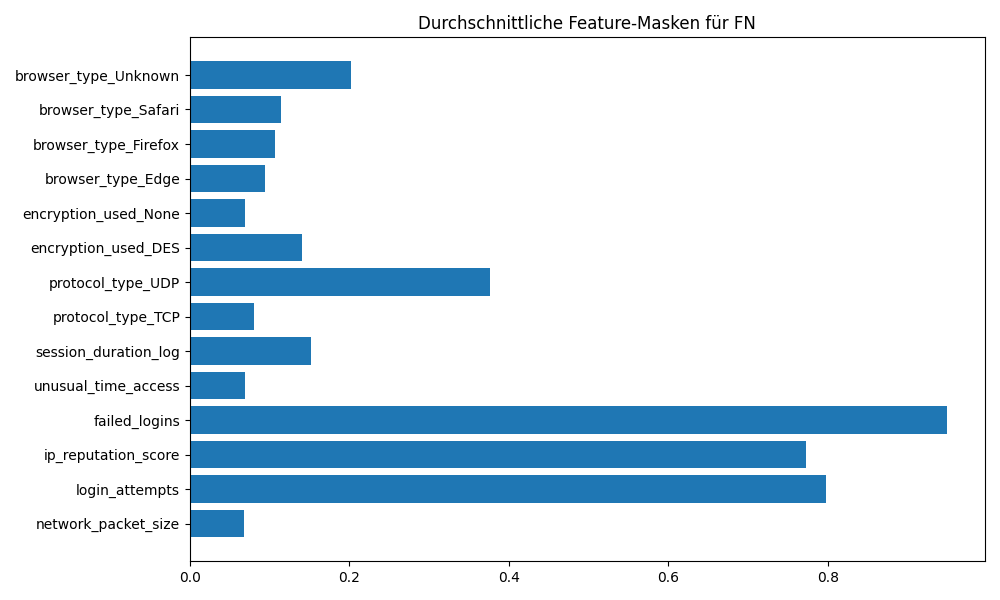
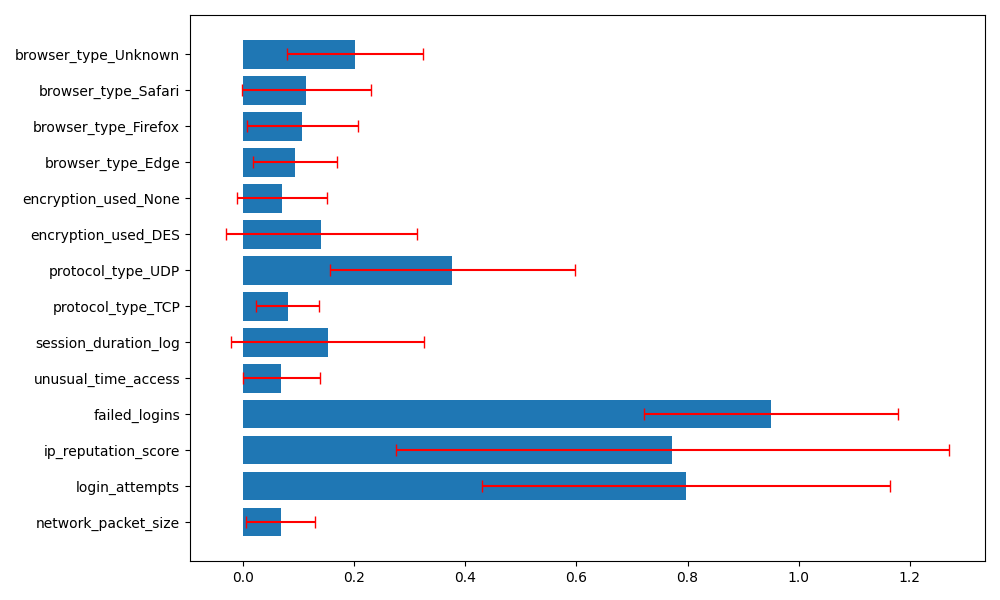
feature masks für fehleranalyse

diff --git a/src/training/evaluate_tabnet.py b/src/training/evaluate_tabnet.py
@@ -1,9 +1,11 @@
 from glob import glob
 import json
 import os
+from matplotlib.patches import Rectangle
 import pandas as pd
 import numpy as np
 import matplotlib.pyplot as plt
+import seaborn as sns
 from pathlib import Path
 from sklearn.metrics import (
     ConfusionMatrixDisplay, confusion_matrix, 
@@ -28,64 +30,179 @@ import os
 import numpy as np
 import matplotlib.pyplot as plt
 
+def compute_null_distribution(mean_mask, labels, n_iter=1000, seed=42):
+    np.random.seed(seed)
+    null_diffs = []
+
+    for _ in range(n_iter):
+        permuted = np.random.permutation(labels)
+        group1 = mean_mask[permuted == 0]
+        group2 = mean_mask[permuted == 1]
+
+        if len(group1) == 0 or len(group2) == 0:
+            continue
+
+        diff = group1.mean(axis=0) - group2.mean(axis=0)
+        null_diffs.append(diff)
+
+    return np.array(null_diffs)
+
+def compute_feature_mask_statistics(mean_mask, idx, feature_names):
+    if len(idx) == 0:
+        return np.zeros(len(feature_names)), np.zeros(len(feature_names))
+    subset = mean_mask[idx]
+    return subset.mean(axis=0), subset.std(axis=0)
+
+def compute_significance(mask_group1, mask_group2, feature_names, diff_label, save_dir):
+    labels = np.array([0] * len(mask_group1) + [1] * len(mask_group2))
+    masks_combined = np.vstack([mask_group1, mask_group2])
+
+    null_diffs = compute_null_distribution(masks_combined, labels, n_iter=1000)
+    lower_ci = np.percentile(null_diffs, 2.5, axis=0)
+    upper_ci = np.percentile(null_diffs, 97.5, axis=0)
+
+    real_diff = mask_group2.mean(axis=0) - mask_group1.mean(axis=0)
+    significant = (real_diff < lower_ci) | (real_diff > upper_ci)
+
+    # Plot
+    plt.figure(figsize=(10, 6))
+    plt.barh(
+        feature_names,
+        real_diff,
+        color=["#1f77b4" if sig else "#d3d3d3" for sig in significant]
+    )
+    plt.axvline(0, color='gray', linestyle='--')
+    plt.tight_layout()
+    filepath = os.path.join(save_dir, f"diff_{diff_label.replace(' ', '_').lower()}_significant.png")
+    plt.savefig(filepath)
+    plt.close()
+
+    return pd.DataFrame({
+        "feature": feature_names,
+        f"diff_{diff_label.lower().replace(' ', '_')}": real_diff,
+        f"ci_lower_{diff_label.lower().replace(' ', '_')}": lower_ci,
+        f"ci_upper_{diff_label.lower().replace(' ', '_')}": upper_ci,
+        f"significant_{diff_label.lower().replace(' ', '_')}": significant
+    })
+
+def plot_feature_mask_bar(mean_mask, std_mask, cls_name, feature_names, save_dir):
+    plt.figure(figsize=(10, 6))
+    plt.barh(feature_names, mean_mask, xerr=std_mask, ecolor="red", capsize=4)
+    plt.tight_layout()
+    filepath = os.path.join(save_dir, f"featuremask_{cls_name.lower()}.png")
+    plt.savefig(filepath)
+    plt.close()
+
+def plot_feature_mask_heatmap(df_masks, df_significance, save_dir):
+    df_all = df_masks.merge(df_significance, on="feature").set_index("feature")
+
+    annot = pd.DataFrame(index=df_all.index)
+    for cls in ["tp", "fn", "fp", "tn"]:
+        mean = df_all[f"mean_{cls}"]
+        std = df_all[f"std_{cls}"]
+        annot[cls.upper()] = [f"{m:.2f} ± {s:.2f}" for m, s in zip(mean, std)]
+
+    heatmap_data = df_all[[f"mean_tp", f"mean_fn", f"mean_fp", f"mean_tn"]]
+    heatmap_data.columns = ["TP", "FN", "FP", "TN"]
+
+    plt.figure(figsize=(10, 8))
+    ax = sns.heatmap(heatmap_data, annot=annot, fmt="", cmap="Blues", linewidths=0.5,
+                     cbar_kws={"label": "Feature Importance (Mean)"})
+    plt.ylabel("Feature")
+    plt.xlabel("Fehlerklasse")
+
+    # Signifikanzrahmen einzeichnen
+    sig_map = {
+        (i, 1): sig for i, sig in enumerate(df_all["significant_fn_tp"])  # FN
+    }
+    sig_map.update({
+        (i, 2): sig for i, sig in enumerate(df_all["significant_fp_tn"])  # FP
+    })
+    for (y, x), sig in sig_map.items():
+        if sig:
+            ax.add_patch(Rectangle((x, y), 1, 1, fill=False, edgecolor='red', lw=2))
+
+    plt.tight_layout()
+    heatmap_path = os.path.join(save_dir, "feature_mask_heatmap_significance.png")
+    plt.savefig(heatmap_path)
+    plt.close()
+
 def analyze_feature_masks(models, X_test, y_test, y_pred, save_dir="reports/figures/feature_masks"):
     os.makedirs(save_dir, exist_ok=True)
     feature_names = X_test.columns.tolist()
 
-    # Schritt 1: Ensemble-Mittelwert der Feature Masks sammeln
-    all_masks = []
-    for model in models:
-        mask, _ = model.explain(X_test.values.astype(np.float32))  # Achtung: explain() statt predict()
-        all_masks.append(mask)
+    all_masks = [model.explain(X_test.values.astype(np.float32))[0] for model in models]
+    mean_mask = np.mean(all_masks, axis=0)
 
-    mean_mask = np.mean(all_masks, axis=0)  # shape: [n_samples, n_features]
-
-    # Schritt 2: Fehlerklassen-Indizes
     y_test = np.array(y_test)
-    tp_idx = np.where((y_test == 1) & (y_pred == 1))[0]
-    fp_idx = np.where((y_test == 0) & (y_pred == 1))[0]
-    fn_idx = np.where((y_test == 1) & (y_pred == 0))[0]
-    tn_idx = np.where((y_test == 0) & (y_pred == 0))[0]
+    idx = {
+        "tp": np.where((y_test == 1) & (y_pred == 1))[0],
+        "fp": np.where((y_test == 0) & (y_pred == 1))[0],
+        "fn": np.where((y_test == 1) & (y_pred == 0))[0],
+        "tn": np.where((y_test == 0) & (y_pred == 0))[0]
+    }
 
-    # Schritt 3: Klassenspezifische Mittelwerte
-    mean_mask_tp = mean_mask[tp_idx].mean(axis=0) if len(tp_idx) > 0 else np.zeros(len(feature_names))
-    mean_mask_fp = mean_mask[fp_idx].mean(axis=0) if len(fp_idx) > 0 else np.zeros(len(feature_names))
-    mean_mask_fn = mean_mask[fn_idx].mean(axis=0) if len(fn_idx) > 0 else np.zeros(len(feature_names))
-    mean_mask_tn = mean_mask[tn_idx].mean(axis=0) if len(tn_idx) > 0 else np.zeros(len(feature_names))
+    stats = {
+        cls: compute_feature_mask_statistics(mean_mask, idx[cls], feature_names)
+        for cls in idx
+    }
 
-    # Schritt 4: Differenzplots
-    def plot_difference(diff, title, filename):
-        plt.figure(figsize=(10, 6))
-        plt.barh(feature_names, diff)
-        plt.title(title)
-        plt.axvline(0, color='gray', linestyle='--')
-        plt.tight_layout()
-        filepath = os.path.join(save_dir, filename)
-        plt.savefig(filepath)
-        plt.close()
-        print(f"[✓] Plot gespeichert unter: {filepath}")
+    df_masks = pd.DataFrame({
+        "feature": feature_names,
+        **{f"mean_{cls}": stats[cls][0] for cls in stats},
+        **{f"std_{cls}": stats[cls][1] for cls in stats},
+    })
 
-    plot_difference(mean_mask_fn - mean_mask_tp,
-                    "Feature-Mask-Differenz (False Negatives - True Positives)",
-                    "diff_fn_vs_tp.png")
+    df_fn_tp = compute_significance(mean_mask[idx["tp"]], mean_mask[idx["fn"]], feature_names, "FN TP", save_dir)
+    df_fp_tn = compute_significance(mean_mask[idx["tn"]], mean_mask[idx["fp"]], feature_names, "FP TN", save_dir)
 
-    plot_difference(mean_mask_fp - mean_mask_tn,
-                    "Feature-Mask-Differenz (False Positives - True Negatives)",
-                    "diff_fp_vs_tn.png")
+    df_combined = df_fn_tp.merge(df_fp_tn, on="feature")
+    df_masks.to_csv(os.path.join(save_dir, "feature_mask_means_stds.csv"), index=False)
+    df_combined.to_csv(os.path.join(save_dir, "feature_mask_significance.csv"), index=False)
 
-    # Schritt 5: Absolute Klassenmasken
-    for cls_name, mask in zip(
-        ["TP", "FP", "FN", "TN"],
-        [mean_mask_tp, mean_mask_fp, mean_mask_fn, mean_mask_tn]
-    ):
-        plt.figure(figsize=(10, 6))
-        plt.barh(feature_names, mask)
-        plt.title(f"Durchschnittliche Feature-Masken für {cls_name}")
-        plt.tight_layout()
-        filepath = os.path.join(save_dir, f"featuremask_{cls_name.lower()}.png")
-        plt.savefig(filepath)
-        plt.close()
-        print(f"[✓] Plot gespeichert unter: {filepath}")
+    for cls in stats:
+        plot_feature_mask_bar(stats[cls][0], stats[cls][1], cls.upper(), feature_names, save_dir)
+
+    plot_feature_mask_heatmap(df_masks, df_combined, save_dir)
+    print("[✓] Alle Feature-Masken und Signifikanzplots wurden gespeichert.")
+
+import os
+import numpy as np
+import pandas as pd
+import matplotlib.pyplot as plt
+import seaborn as sns
+
+def analyze_ensemble_uncertainty(models, X_test, y_test, y_pred, save_dir="reports/figures/ensemble_uncertainty"):
+    os.makedirs(save_dir, exist_ok=True)
+
+    print("[✓] Berechne predict_proba pro Fold-Modell...")
+    probas = np.array([model.predict_proba(X_test.values)[:, 1] for model in models])  # [n_models, n_samples]
+
+    print("[✓] Berechne Streuung und Mittelwert je Instanz...")
+    proba_std = np.std(probas, axis=0)    # [n_samples]
+    proba_mean = np.mean(probas, axis=0)  # [n_samples]
+
+    df = pd.DataFrame({
+        "y_true": y_test,
+        "y_pred": y_pred,
+        "proba_mean": proba_mean,
+        "proba_std": proba_std
+    })
+
+    df["error_type"] = "Correct"
+    df.loc[(df.y_true == 1) & (df.y_pred == 0), "error_type"] = "False Negative"
+    df.loc[(df.y_true == 0) & (df.y_pred == 1), "error_type"] = "False Positive"
+
+    # Violinplot der Streuung pro Fehlerklasse
+    plt.figure(figsize=(8, 5))
+    sns.violinplot(data=df, x="error_type", y="proba_std", inner="box", cut=0)
+    plt.ylabel("Standardabweichung der Modell-Vorhersagen")
+    plt.xlabel("Fehlerklasse")
+    plt.tight_layout()
+    path_violin = os.path.join(save_dir, "ensemble_std_per_error_type_violin.png")
+    plt.savefig(path_violin)
+    plt.close()
+    print(f"[✓] Violinplot gespeichert unter: {path_violin}")
 
 def run_final_test_model_ensemble(alpha=2, beta=1):
     print("[✓] Lade Holdout-Testdaten...")
@@ -148,5 +265,8 @@ def run_final_test_model_ensemble(alpha=2, beta=1):
 
     print("[✓] Starte Feature-Mask-Analyse...")
     analyze_feature_masks(models, X_test, y_test.values, y_pred)
+
+    print("[✓] Starte Konsistenzanalyse des Ensembles...")
+    analyze_ensemble_uncertainty(models, X_test, y_test.values, y_pred)
 
     print("[✓] Testevaluation des Ensembles abgeschlossen.")
